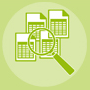
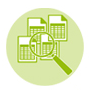
Change front page datasets block styling

diff --git a/css/blocks.css b/css/blocks.css
@@ -157,22 +157,34 @@ h2.block-title { /* Block title */
   padding-right: 40px;
 }
 #block-clio-blocks-download .datasets-button {
-  background-color: #cade85;
-  margin-top: 3px;
   float: left;
   width: 100%;
   height: 107px;
 }
-#block-clio-blocks-download .datasets-label {
+#block-clio-blocks-download .datasets-text {
   float: left;
-  margin: 10px;
-  font-size: 1.2em;
+  width: 300px;
+  margin-left: 10px;
+}
+#block-clio-blocks-download .datasets-text h3 {
+  color: #96bd0d;
+  margin-bottom: 10px;
 }
 #block-clio-blocks-download .datasets-img {
   float: right;
-  margin-right: 70px;
+  margin-right: 20px;
+  height: 90px;
+}
+#block-clio-blocks-download .datasets-label {
+  float: right;
+  clear: right;
+  margin-right: 20px;
+  width: 90px;
+  background-color: #cade85;
+  text-align: center;
 }
 #block-clio-blocks-download a {
+  text-decoration: none;
   color: #000;
 }
 
@@ -216,7 +228,7 @@ h2.block-title { /* Block title */
   height: 50px;
   padding: 5px;
   color: #fff;
-  font-size: 18px;
+  font-size: 15px;
   margin-bottom: 2px;
 }
 #block-views-news-block-1 .views-row a {
